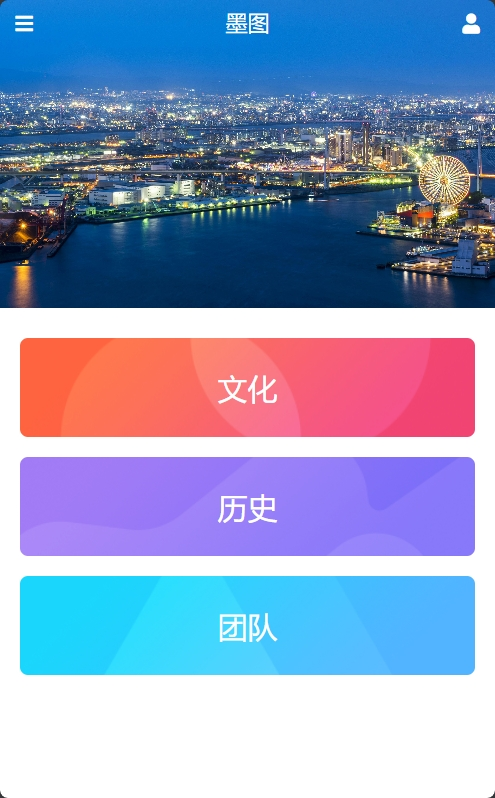
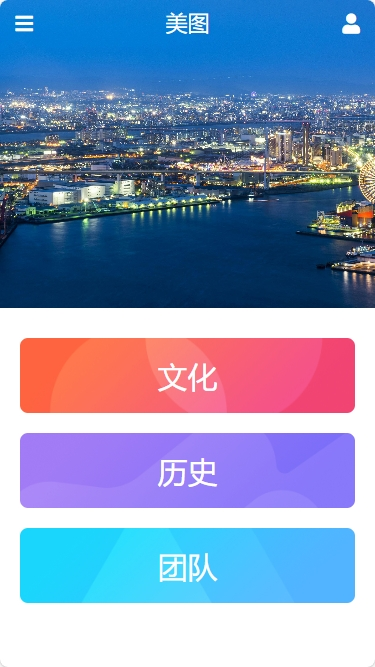
feat(优化): 修改网站名称

diff --git a/index.html b/index.html
@@ -5,7 +5,7 @@
   <meta charset="UTF-8">
   <meta http-equiv="X-UA-Compatible" content="IE=Edge">
   <meta name="viewport" content="width=device-width, initial-scale=1.0">
-  <title>墨图</title>
+  <title>美图</title>
   <!-- 引入页签图标 -->
   <link rel="icon" href="./favicon.ico" type="image/x-icon">
   <!-- 引入字体图标 -->
@@ -21,7 +21,7 @@
 <body>
   <!-- 顶部背景区 -->
   <div class="topimg">
-    <img src="./images/img.jpg" alt="背景">
+    <img src="./img/img.jpg" alt="背景">
   </div>
 
   <!-- 顶部导航条 -->
@@ -100,7 +100,7 @@
       </div>
     </div>
     <div class="logo-wrap">
-      <span>墨图</span>
+      <span>美图</span>
     </div>
     <div class="welcome-wrap">
       <div class="user">

diff --git a/css/index.css b/css/index.css
@@ -394,15 +394,15 @@
 }
 
 .function .content-wrap .contents li:nth-child(1) {
-  background: url(../images/banner1.png) center / cover no-repeat;
+  background: url(../img/banner1.png) center / cover no-repeat;
 }
 
 .function .content-wrap .contents li:nth-child(2) {
-  background: url(../images/banner2.png) center / cover no-repeat;
+  background: url(../img/banner2.png) center / cover no-repeat;
 }
 
 .function .content-wrap .contents li:nth-child(3) {
-  background: url(../images/banner3.png) center / cover no-repeat;
+  background: url(../img/banner3.png) center / cover no-repeat;
 }
 
 .function .content-wrap .contents li a {

diff --git a/README.md b/README.md
@@ -1,4 +1,4 @@
-# 墨图
+# 美图
 
 使用HTML和CSS编写的模仿美图官网的前端项目，兼容PC端和APP端。
 
